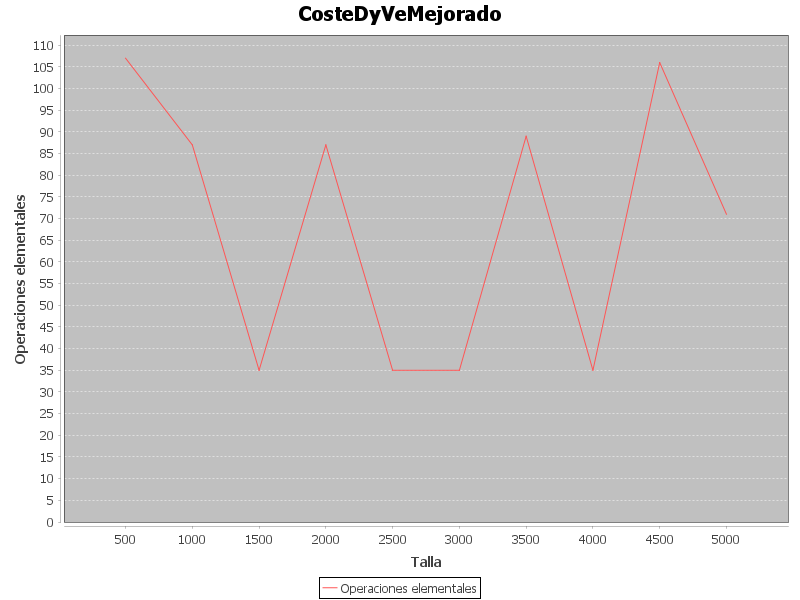
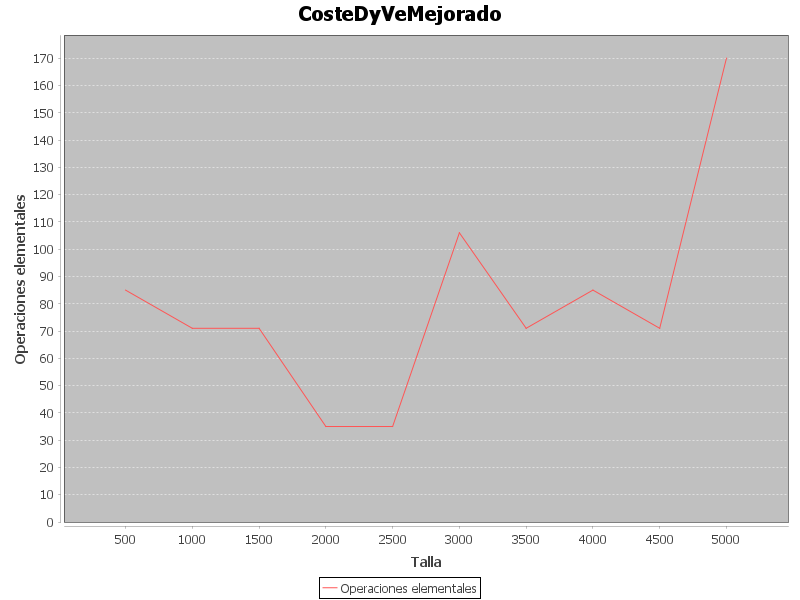
Hice algo, no me acuerdo que jajaja

diff --git a/src/Clases/Algoritmos.java b/src/Clases/Algoritmos.java
@@ -68,22 +68,35 @@ public class Algoritmos {
         return p;
     }
 
-    /*public PuntosMin BusquedaExahustiva11(List<Punto> puntos, int inicio, int fin) {
-        double dmin = distancia(puntos.get(0), puntos.get(1));
+    public PuntosMin BusquedaExahustiva11(List<Punto> puntos, int inicio, int fin) {
+   
+        PuntosMin p = new PuntosMin(puntos.get(0), puntos.get(1));
+        double dmin = p.getDistancia();
         cont++;
-        p.punt(puntos.get(0), puntos.get(1));
+        op+=9;
         for (int i = inicio; i < fin; i++) {
-            for (int j = i + 1; j < fin && j <= i + 11; j++) {
-                double d = distancia(puntos.get(i), puntos.get(j));
-                cont++;
-                if (d < dmin) {
-                    dmin = d;
-                    p.punt(puntos.get(i), puntos.get(j));
+            op+=8;
+            for (int j = i + 1; j < fin; j++) {
+                op+=4;
+                if ((puntos.get(j).getX() - puntos.get(i).getX()) < dmin && j <= i + 11) {
+                    double d = distancia(puntos.get(i), puntos.get(j));
+                    cont++;
+                    op+=3;
+                    if (d < dmin) {
+                        dmin = d;
+                        p.punt(puntos.get(i), puntos.get(j));
+                        op+=2;
+                    }
+                } else {
+                    j = fin; //o ponemos break y al carajo
+                    op++;
                 }
+                op+=8;
             }
+            op+=4;
         }
         return p;
-    }*/
+    }
     //MODIFICACION EN CLASE
     public static PuntosMin BusquedaPoda(List<Punto> puntos, int inicio, int fin) {
         quicksort(puntos, inicio, fin); //ordenamos el fichero por la cordenada x
@@ -255,7 +268,7 @@ public class Algoritmos {
 
         } else {
             op+=2;
-            p = BusquedaPoda(puntos, i, d);
+            p = BusquedaExahustiva11(puntos, i, d);
         }
 
         return p;
